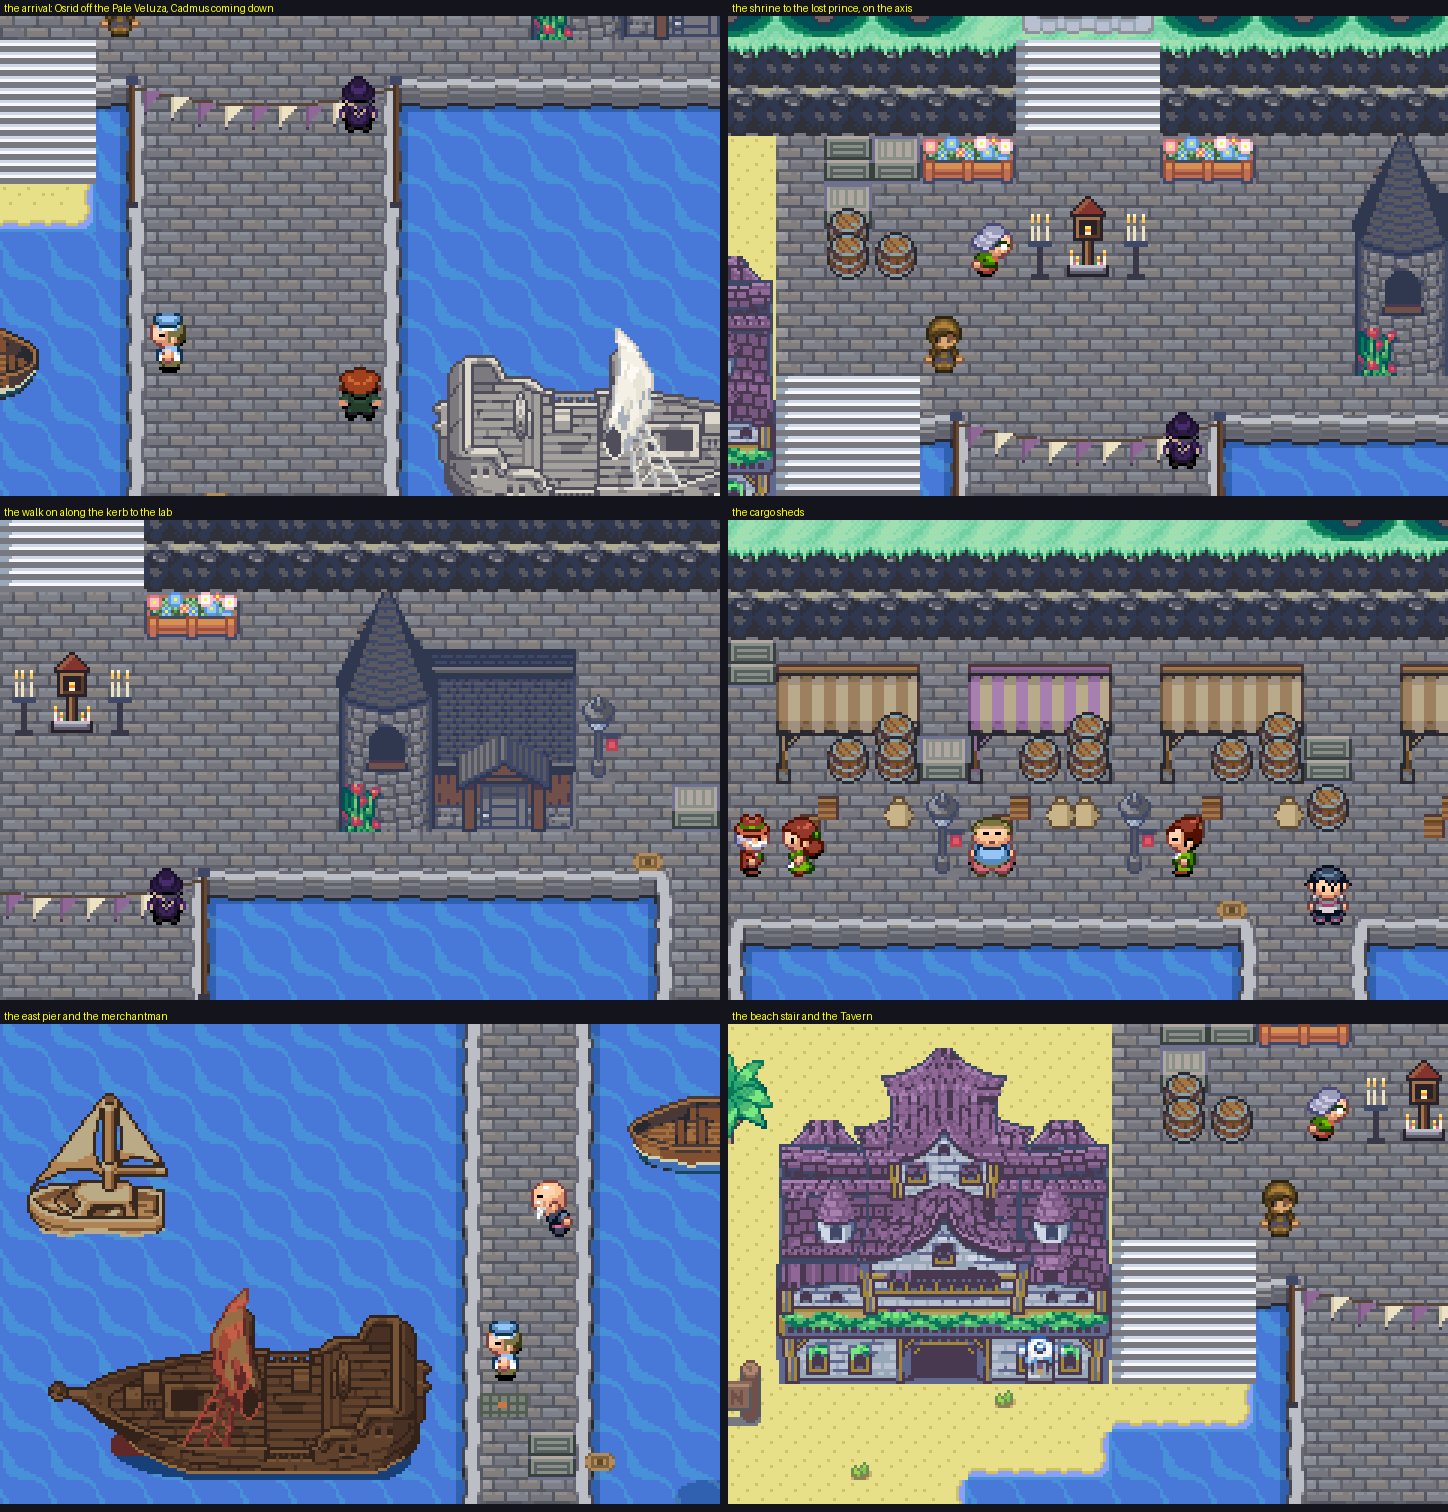
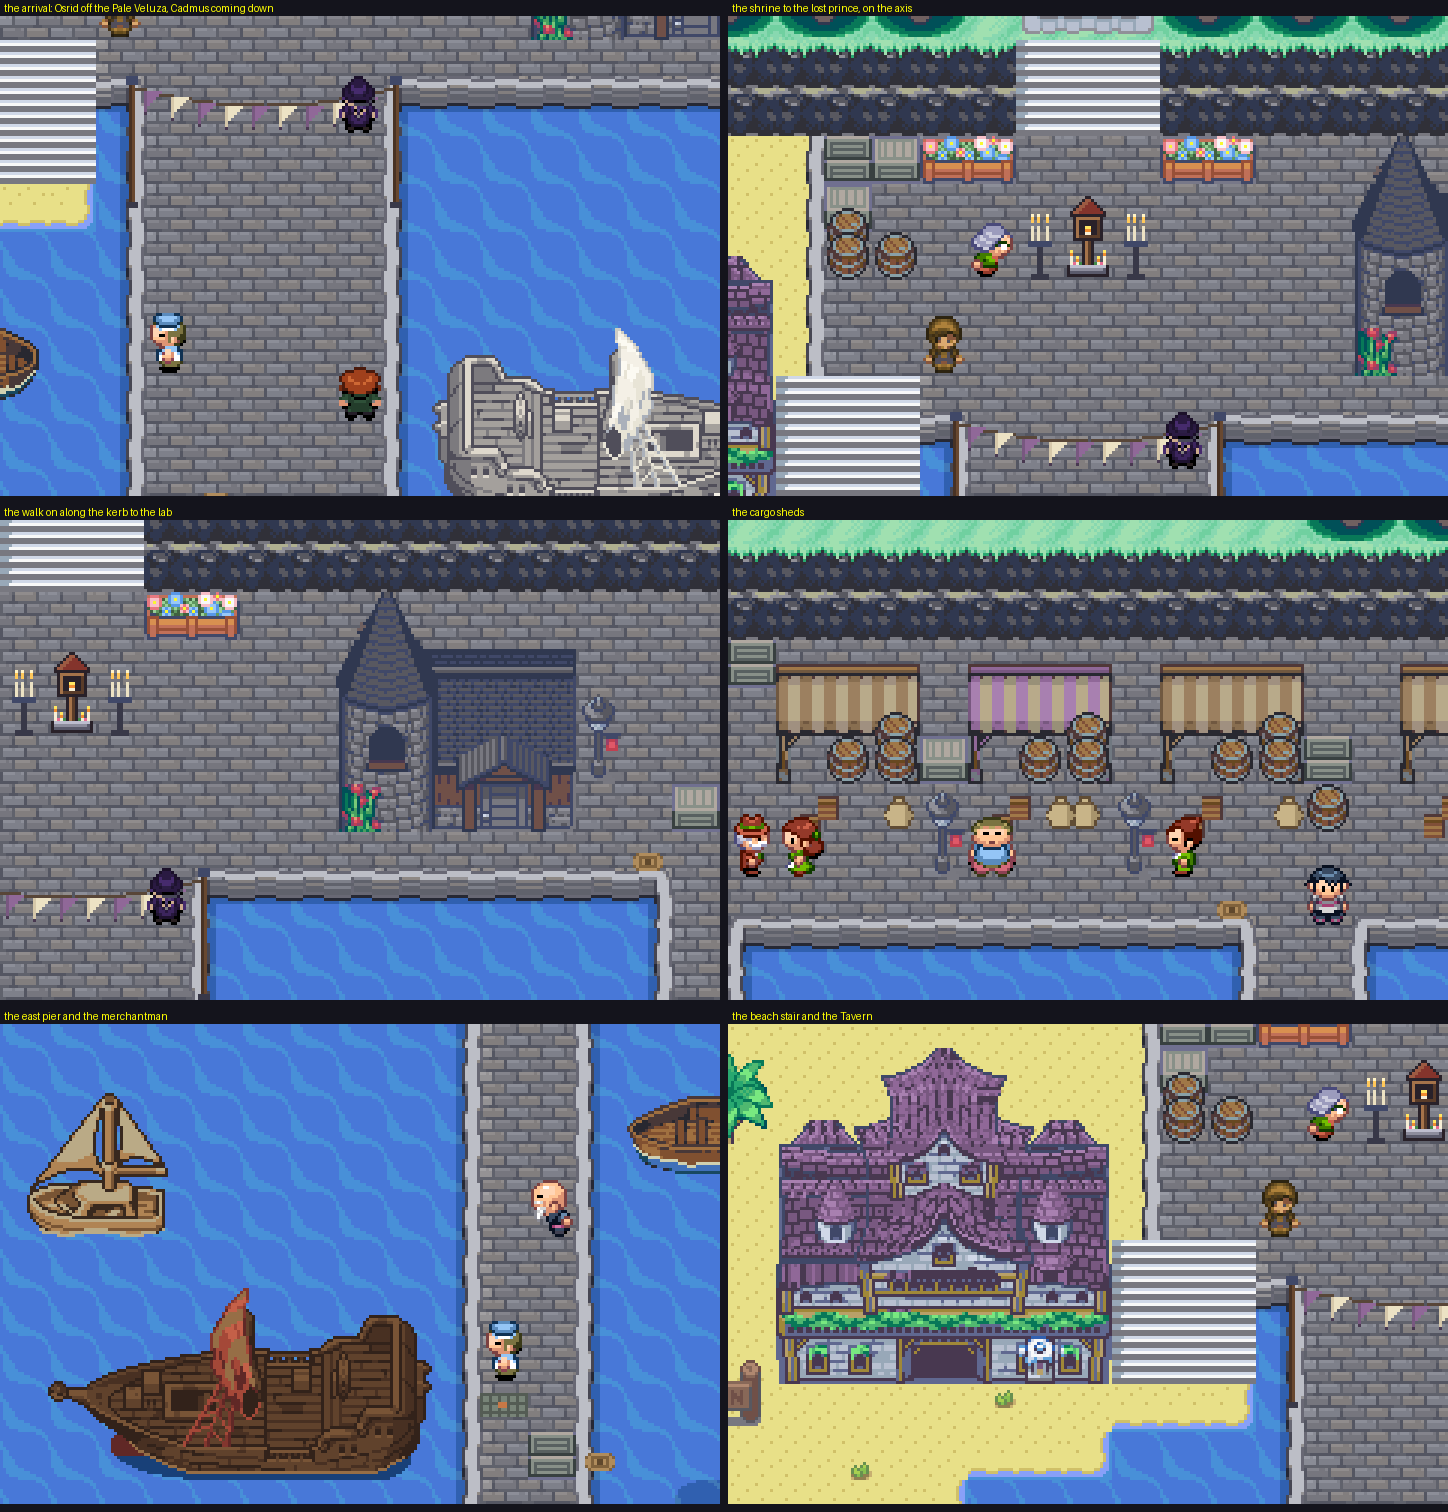
Pelluca waterfront: wall off the quay's west side above the beach
User: the quay is above the beach, so it must be walled off; only the stair leads down; 'it needs the same wall you
have around the dock'. x 32 rows 36-40 is now the quay's own edge piece (kerb and drop) with sand at its foot, solid.
Checked: from the beach no quay cell is reachable without the three-wide stair.

Claude-Session: https://claude.ai/code/session_01FHXnfqnedTHLf5QFbB3MCU

Changed region(s): [[0.7459, 0.6528, 0.808, 0.8393], [0.5283, 0.0933, 0.5905, 0.2487]]

diff --git a/tools/art/pelluca/waterfront_mock.py b/tools/art/pelluca/waterfront_mock.py
@@ -74,6 +74,10 @@ def cb(m):
 BEACH_X = (8, 34)
 WY = dict(zip(range(8, 35), [45, 45, 46, 46, 46, 47, 47, 48, 48, 48, 48, 48, 47, 47, 47, 46, 46, 46, 46, 46, 46, 45, 45, 45, 44, 44, 44]))
 QUAY = (32, 36, 71, 40)                      # paving rows 36-40; kerb row 41, its face row 42
+# (user 2026-11-25: the quay stands above the beach, so its west side is walled off: the only way between them is the
+# three-wide stair) the quay's west edge, rows 36-40 at x 32, is a solid retaining wall: Watercress' own quay edge
+# (its rim piece, kerb and drop) with sand at its foot in place of water
+SEAWALL = [(32, y) for y in range(36, 41)]
 PIERS = [(35, 7, 53, False), (50, 5, 47, False), (64, 4, 52, False)]   # (left x, width, kerb row, bunting at its root)
 LAB = (44, 40, 49, 44, -4)                   # the lab's cells in the old map, moved up 4
 TAVERN = (25, 36, 31, 43)
@@ -133,7 +137,7 @@ def check_walk():
     lab = {(x, y) for x in range(44, 50) for y in range(36, 41)} - {(47, 40)}
     bad += [(c, 'the lab') for c in ARRIVAL if c in lab]
     pier = {(x, y) for x in range(36, 41) for y in range(41, 53)}
-    quay = {(x, y) for x in range(32, 72) for y in range(36, 42)}
+    quay = {(x, y) for x in range(33, 72) for y in range(36, 42)}
     off = [c for c in ARRIVAL if c not in pier | quay and c != (47, 40)]
     bad += [(c, 'not on stone') for c in off]
     clash = {}
@@ -186,6 +190,12 @@ def compose(town):
         for x in range(x0, x1 + 1):
             land[y, x] = True
             img[blk(x, y)] = wc('2df' if x == x1 else '2b7')
+    sand = cb('279')
+    for (x, y) in SEAWALL:                       # the rim, its water part turned to the sand below the wall
+        t = wc('2dd'); wet = np.zeros(t.shape[:2], bool)
+        for c in [tuple(v) for v in wc('6c').reshape(-1, 3)] + [tuple(v) for v in wc('e0').reshape(-1, 3)]:
+            wet |= (t == c).all(-1)
+        t[wet] = sand[wet]; img[blk(x, y)] = t
     pier_cols = {}
     for (px, w, kr, bunt) in PIERS:
         for i in range(w): pier_cols[px + i] = (px, w, kr, bunt, i)
@@ -407,6 +417,23 @@ if __name__ == '__main__':
     out = sys.argv[1] if len(sys.argv) > 1 else '/tmp'
     town = Image.open(sys.argv[2] if len(sys.argv) > 2 else '/home/claude/scratch/pelluca_now.png')
     bad, clash = check_walk()
+    # the beach reaches the quay only by the stair: walk the cells (sand, quay, stair; the wall, the tavern, water solid)
+    def walkable(x, y):
+        if (x, y) in SEAWALL: return False
+        if TAVERN[0] <= x <= TAVERN[2] and TAVERN[1] <= y <= TAVERN[3]: return False
+        if (x, y) in STAIRS_DOWN: return True
+        if QUAY[0] < x <= QUAY[2] and QUAY[1] <= y <= QUAY[3] + 1: return True
+        return BEACH_X[0] <= x <= BEACH_X[1] and 36 <= y <= WY[x] and not (x >= 32 and y < 44)
+    from collections import deque
+    start = (20, 40); seen = {start}; q = deque([start]); via = False
+    while q:
+        x, y = q.popleft()
+        for dx, dy in ((1, 0), (-1, 0), (0, 1), (0, -1)):
+            n = (x + dx, y + dy)
+            if n not in seen and walkable(*n):
+                if QUAY[0] < n[0] and n[1] <= QUAY[3] + 1 and (x, y) not in STAIRS_DOWN and not (QUAY[0] < x): print('LEAK onto the quay at', n, 'from', (x, y))
+                seen.add(n); q.append(n)
+    print('beach -> quay only by the stair:', all(not (QUAY[0] < x and y <= QUAY[3] + 1) or True for (x, y) in seen))
     print('the walk is clear' if not bad else 'BLOCKED: %s' % bad); print('people on things:', clash or 'none')
     img = compose(town)
     Image.fromarray(img).save(os.path.join(out, 'waterfront_mock_v3_full.png'))

diff --git a/assets/pelluca_dock_spec/PELLUCA_DESIGN.md b/assets/pelluca_dock_spec/PELLUCA_DESIGN.md
@@ -639,6 +639,9 @@ drafts were previews only and the game still loaded the old Mauville map.
   sheds with barrels, crates, sacks, rope and nets, Pelluca's iron harbour lamps, plum-and-cream pennants on timber
   poles across the great pier's root; the beach in MonoMyth's Cascade sand (no grey surf band), palms in groups, a
   three-wide stair from the quay down onto it; the beach jetty removed (user).
+- The quay stands above the beach (user 2026-11-25): its west side (x 32, rows 36-40) is a solid wall, the quay's
+  own edge (the same kerb and drop as along the water) with sand at its foot; the three-wide stair (x 32-34, rows
+  41-43) is the only way between beach and quay (checked: with the stair removed, no quay cell is reachable).
 - Ships (searched every large sprite in Crown, Odyssey, Lazarus and MonoMyth: Crown's wooden ship is the only large
   medieval vessel): the Pale Veluza = Crown's ship bleached pale with an ivory sail, berthed east of the great pier;
   a merchantman = the same hull mirrored, tarred, madder sail, at the east pier; a fishing sloop = Lazarus' sailboat
